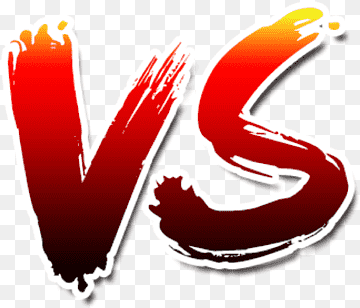
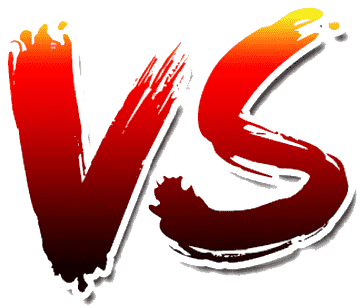
update

diff --git a/pages/games.tsx b/pages/games.tsx
@@ -11,6 +11,7 @@ import 'swiper/css/scrollbar';
 import {Tabs, Tab} from "@/components/basic/tabs";
 
 import games from '@/mock_data/games.json';
+import wars from '@/mock_data/wars.json';
 import Link from 'next/link';
 import GameDefault from '@/components/partials/gameDefault';
 
@@ -25,7 +26,7 @@ const Game = () => {
 				className="w-1/3 mx-auto mt-16 bg_drop divide-x divide-gray-500"
 				contentClass="my-auto"
 			>
-				<Tab title="List of Games">
+				<Tab title="Single Games">
 					<div className="p-4 border-2 bg_drop bg-black rounded-lg">
 						<Swiper
 							modules={[Navigation, Scrollbar, Mousewheel ]}
@@ -44,7 +45,7 @@ const Game = () => {
 						</Swiper>
 					</div>
 				</Tab>
-				<Tab title="Clan Wars">
+				<Tab title="Multiple Games">
 					<div className="p-4 border-2 bg_drop rounded-lg bg-black">
 						<Swiper
 							modules={[Navigation, Scrollbar, Mousewheel ]}
@@ -73,10 +74,10 @@ const Game = () => {
 										</div>
 										<div className="absolute left-[50%] top-[50%] translate-x-[-50%] translate-y-[-50%]">
 											<Image draggable="false" 
-												src="/images/sword.png"
+												src="/images/vs.png"
 												alt="sniper"
-												width={50}
-												height={50}
+												width={80}
+												height={80}
 											/>
 										</div>
 									</div>
